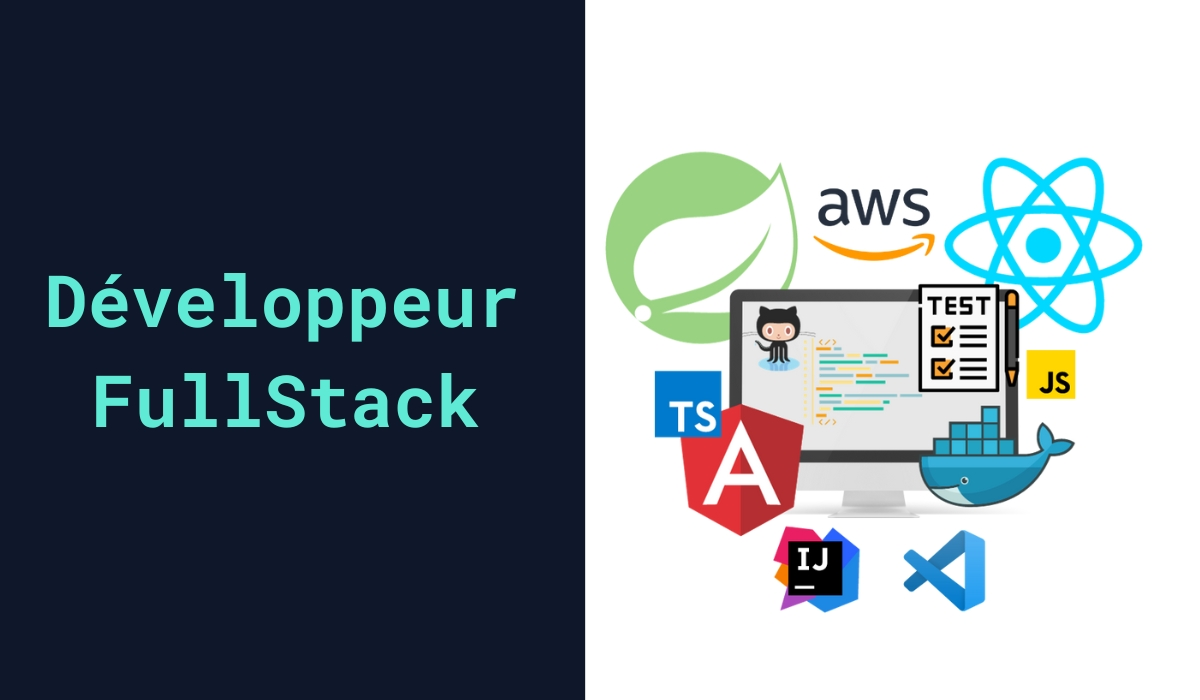
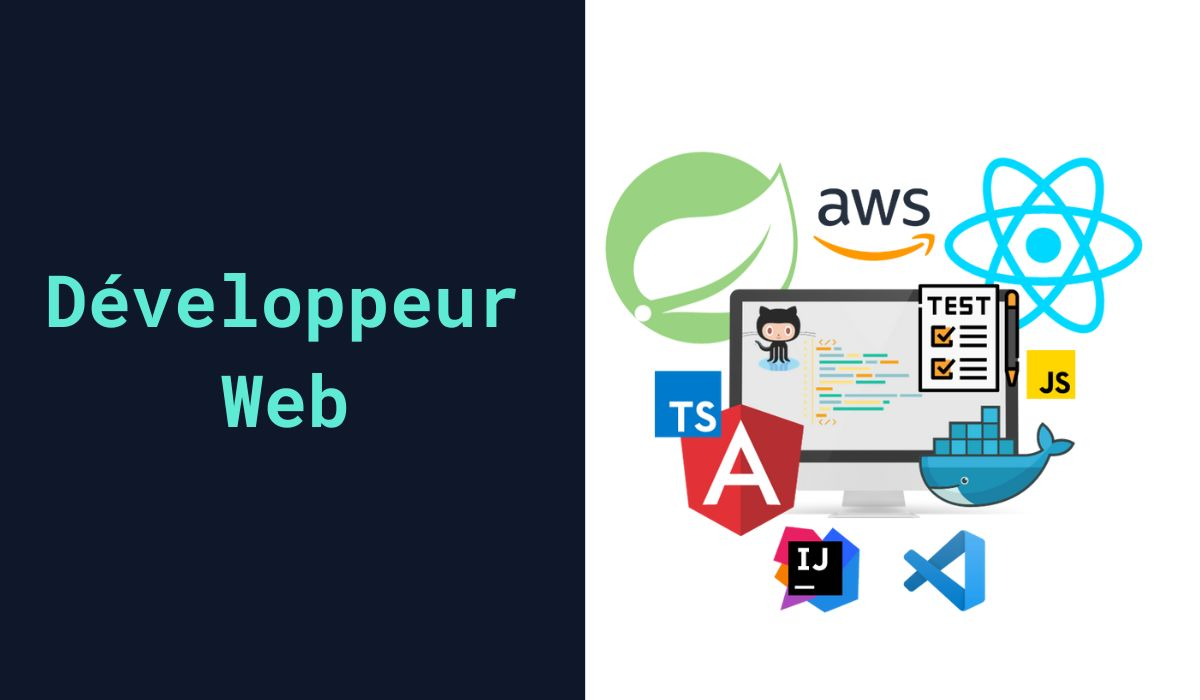
Update profile

Changed region(s): [[0.0617, 0.51, 0.4008, 0.63]]

diff --git a/app/layout.tsx b/app/layout.tsx
@@ -1,15 +1,11 @@
-import CustomThemeProvider from '@/lib/CustomThemeProvider'
 import './globals.css'
-import Header from '@/components/Header'
 import Navbar from '@/components/Navbar'
-import { useState } from 'react'
-import MovingDot from '@/components/MovingDot'
 import WebsiteWrapper from '@/lib/WebsiteWrapper'
 
 export const metadata = {
 	metadataBase: new URL('https://www.hamza-labzioui.com'),
-	title: 'Hamza Labzioui - Développeur Fullstack',
-	description: 'Portfolio de Hamza Labzioui. Développeur Fullstack à Toulouse, France. Java, SprinBoot, Hibernate, React, Angular, TailwindCSS, CI/CD, AWS. Contact: hamza.labzioui@gmail.com.',
+	title: 'Hamza Labzioui - Développeur Web',
+	description: 'Portfolio de Hamza Labzioui. Développeur web à Toulouse, France. Java, SprinBoot, Hibernate, React, Angular, TailwindCSS, CI/CD, AWS. Contact: hamza.labzioui@gmail.com.',
 }
 
 export default function RootLayout({
